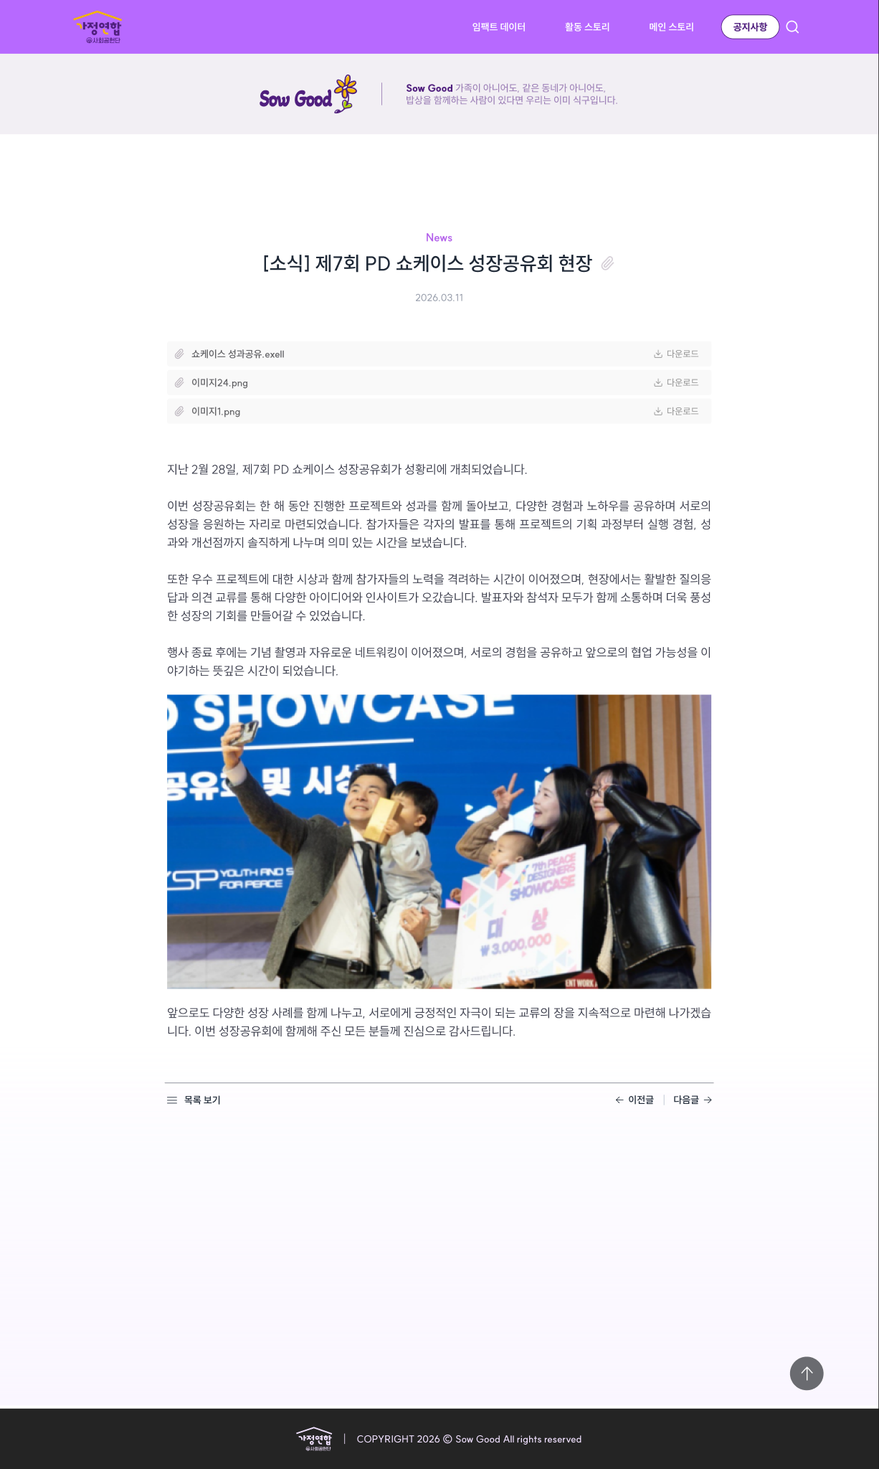
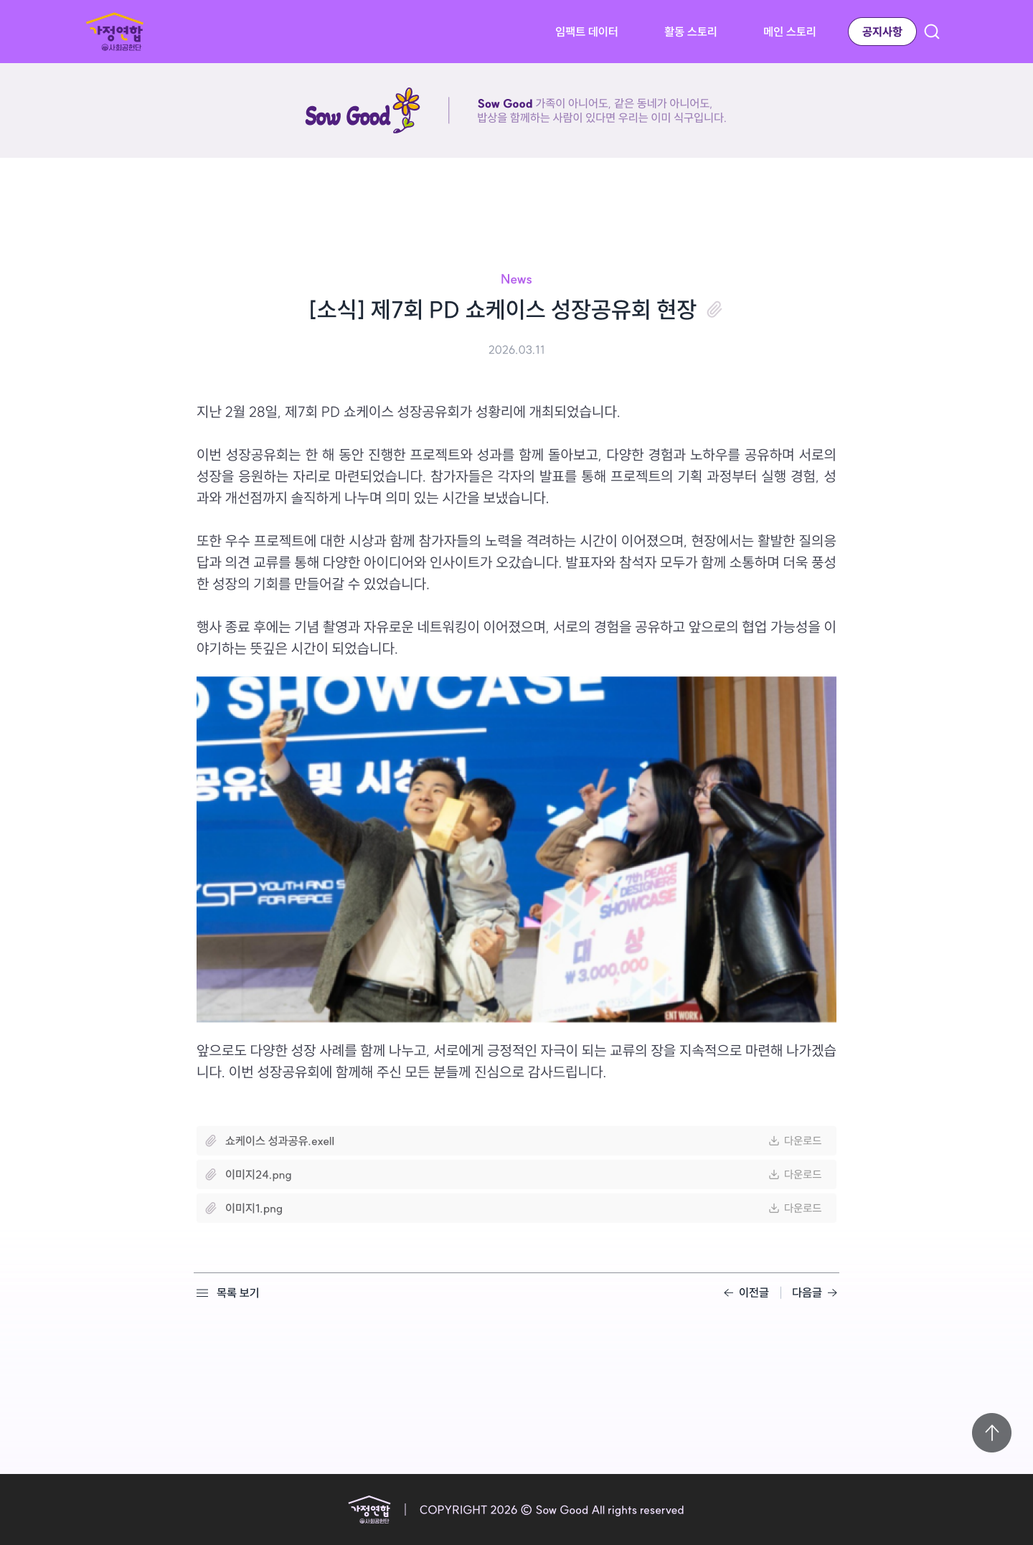
feat(notices): 구간별 Figma 반응형 4-BP 정합 + 상세 다운로드 하단 이동
- 상세 다운로드 섹션 본문 위→아래 이동 (리뷰 피드백, 새 상세 프레임과 일치)
- 디자이너 구간별 프레임 10(1149-*) 실측으로 [추론] 교체 (375/768/1024/1440, Playwright ±2px)
- 모바일(<768) 목록 No·Date 열 제거(Title 단일), 누락 lg(1024) 스텝 보강
- 목록 타이포 전 BP 고정(eyebrow18/h1 32)·상세 h1 28→32(md)·블록 gap60·다운로드→구분선70
- 헤더·푸터·배너 미참고(지시). 데이터·마이그레이션·다운로드 route 무변경
- 측정 docs/design/notices-fidelity-2026-07-08.md + ground truth PNG 갱신, ADR-042 addendum·S8 완료

diff --git a/src/app/(public)/notices/notice-list-rows.tsx b/src/app/(public)/notices/notice-list-rows.tsx
@@ -1,4 +1,5 @@
-// 공지 목록 행 — Figma 1104:10001 정합. 헤더 #242424 h53 · 일반 행 h62(지브라 #f9f9fc) · 읽음 행 h70(#fcfaff/#f9f4ff + 핀·보라 텍스트)
+// 공지 목록 행 — Figma 4-BP 정합(1149-9301/8742/7972·1103-7882, 측정 docs/design/notices-fidelity-2026-07-08.md).
+// 헤더/일반/읽음 행 높이 40·48·48(375) → 44·56·62(768) → 53·62·70(1025·1440). 모바일(375)은 No·Date 열 제거, Title 단일 열.
 // 호버 = 읽음 행 hover 상태(#f9f4ff + 보라)와 동일 색 처리 (Figma interaction annotation "중복 사용"). 색만 전환 — 레이아웃 시프트 방지 [정책]
 // 읽음 상태는 localStorage(visited-notices) — mount 후 적용해 SSR 마크업과 첫 클라 렌더 일치 (hydration-safe)
 "use client";
@@ -23,9 +24,9 @@ export type NoticeListRow = {
 
 const EMPTY_SET: ReadonlySet<string> = new Set();
 
-// 3열 공통 그리드·패딩 — 헤더/행 동일 정렬 (Figma: No 100 / Title flex / Date 100, px 20, gap 36. 하위 BP는 비례 축소 [추론])
+// 공통 그리드·패딩 — 헤더/행 동일 정렬. Figma 4-BP 실측: 모바일 Title 단일 열(px12) → md↑ No100/Title/Date100·gap36(px 12→20 at lg).
 const ROW_GRID_CLASS =
-  "grid grid-cols-[36px_minmax(0,1fr)_78px] items-center gap-3 px-3 md:grid-cols-[56px_minmax(0,1fr)_96px] md:gap-6 md:px-4 wide:grid-cols-[100px_minmax(0,1fr)_100px] wide:gap-9 wide:px-5";
+  "grid grid-cols-[minmax(0,1fr)] items-center px-3 md:grid-cols-[100px_minmax(0,1fr)_100px] md:gap-9 lg:px-5";
 
 export function NoticeListRows({
   rows,
@@ -43,19 +44,19 @@ export function NoticeListRows({
   }, []);
 
   return (
-    // 테이블 폭 — Figma 1440: 콘텐츠 밴드 1200 안에서 900 중앙 (좌우 인셋 150). 하위 BP 는 밴드 전체폭 [추론]
-    <div className="mt-10 wide:mx-auto wide:mt-[82px] wide:max-w-[900px]">
-      {/* 헤더 행 — Figma TopBlock: #242424 · SUIT SemiBold 18 · h53 · rounded 4 */}
+    // 테이블 폭 — Figma: md/lg/모바일은 SectionContainer 밴드 전체(648/905/유동), wide 만 1200 밴드 안 900 중앙. 타이틀→표 gap 41(375)/82(md↑).
+    <div className="mt-10 md:mt-[82px] wide:mx-auto wide:max-w-[900px]">
+      {/* 헤더 행 — Figma TopBlock #242424 rounded4. h40/44/53, 텍스트 16/16/18. 모바일은 Title 단일 열 */}
       <div
         aria-hidden
         className={cn(
           ROW_GRID_CLASS,
-          "h-11 rounded-[4px] bg-[#242424] text-[13px] font-semibold text-[#f2f2f2] md:h-12 md:text-[15px] wide:h-[53px] wide:text-[18px]",
+          "h-10 rounded-[4px] bg-[#242424] text-base font-semibold text-[#f2f2f2] md:h-11 lg:h-[53px] lg:text-lg",
         )}
       >
-        <span className="text-center">No.</span>
+        <span className="hidden text-center md:block">No.</span>
         <span>Title</span>
-        <span className="text-center">Date</span>
+        <span className="hidden text-center md:block">Date</span>
       </div>
 
       {rows.length === 0 ? (
@@ -74,10 +75,10 @@ export function NoticeListRows({
                   className={cn(
                     ROW_GRID_CLASS,
                     "group border-b transition-colors",
-                    // 높이 — 일반 62 / 읽음 70 (Figma). 하위 BP 비례 [추론]
+                    // 행 높이 (Figma 4-BP) — 일반 48/56/62/62 · 읽음 48/62/70/70
                     isVisited
-                      ? "min-h-[54px] border-[#ece1f3] md:min-h-[60px] wide:min-h-[70px]"
-                      : "min-h-12 border-[#cbcbcb] md:min-h-[54px] wide:min-h-[62px]",
+                      ? "min-h-12 border-[#ece1f3] md:min-h-[62px] lg:min-h-[70px]"
+                      : "min-h-12 border-[#cbcbcb] md:min-h-14 lg:min-h-[62px]",
                     // 지브라 — 일반: white/#f9f9fc · 읽음: #fcfaff/#f9f4ff. 호버는 항상 #f9f4ff
                     isVisited
                       ? isEven
@@ -89,23 +90,24 @@ export function NoticeListRows({
                     "hover:bg-[#f9f4ff]",
                   )}
                 >
+                  {/* No·Date 는 모바일(375)에서 숨김 — Figma 는 Title 단일 열 */}
                   <span
                     className={cn(
-                      "text-center text-[13px] font-medium tabular-nums transition-colors md:text-[15px] wide:text-[18px]",
+                      "hidden text-center text-base font-medium tabular-nums transition-colors md:block lg:text-lg",
                       isVisited ? "text-[#c8a3e6]" : "text-[#959ba9]",
                       "group-hover:text-[#c8a3e6]",
                     )}
                   >
                     {row.no}
                   </span>
-                  <span className="flex min-w-0 items-center gap-1.5 wide:gap-2.5">
-                    {/* 읽음 마커 핀 — Figma No/PinIcon (읽은 행에만, fill #E1C8F9) */}
+                  <span className="flex min-w-0 items-center gap-2.5">
+                    {/* 읽음 마커 핀 — Figma No/PinIcon (읽은 행에만, fill #E1C8F9). 20/20/24/24 */}
                     {isVisited && (
-                      <NoticePinIcon className="size-4 text-[#e1c8f9] md:size-5 wide:size-6" />
+                      <NoticePinIcon className="size-5 text-[#e1c8f9] lg:size-6" />
                     )}
                     <span
                       className={cn(
-                        "truncate text-[13px] font-medium transition-colors md:text-[15px] wide:text-[18px]",
+                        "truncate text-base font-medium transition-colors lg:text-lg",
                         isVisited ? "text-[#a34df3]" : "text-[#2d2d2d]",
                         "group-hover:text-[#a34df3]",
                       )}
@@ -116,7 +118,7 @@ export function NoticeListRows({
                       <NoticeClipIcon
                         aria-label="첨부파일 있음"
                         className={cn(
-                          "size-4 transition-colors wide:size-5",
+                          "size-5 transition-colors",
                           isVisited ? "text-[#c8a3e6]" : "text-[#d6d0d8]",
                           "group-hover:text-[#c8a3e6]",
                         )}
@@ -125,7 +127,7 @@ export function NoticeListRows({
                   </span>
                   <span
                     className={cn(
-                      "text-center text-[13px] font-medium tabular-nums transition-colors md:text-[15px] wide:text-[18px]",
+                      "hidden text-center text-base font-medium tabular-nums transition-colors md:block lg:text-lg",
                       isVisited ? "text-[#c8a3e6]" : "text-[#959ba9]",
                       "group-hover:text-[#c8a3e6]",
                     )}
@@ -140,8 +142,8 @@ export function NoticeListRows({
       )}
 
       {totalPages > 1 && (
-        // Figma: 목록 하단 →80→ 페이지네이션 (1440). 하위 BP 40 [추론]
-        <div className="mt-10 flex justify-center wide:mt-20">
+        // Figma 전 BP: 목록 하단 →80→ 페이지네이션
+        <div className="mt-20 flex justify-center">
           <Pagination
             page={page}
             totalPages={totalPages}

diff --git a/src/app/(public)/notices/[id]/page.tsx b/src/app/(public)/notices/[id]/page.tsx
@@ -1,4 +1,4 @@
-// 공지사항 상세 페이지 — Figma 1104:10813 정합. 중앙 타이틀 블록(News eyebrow·클립) + 첨부 다운로드(본문 위) + 본문 + 목록/이전다음
+// 공지사항 상세 페이지 — Figma 1104:10813 정합. 중앙 타이틀 블록(News eyebrow·클립) + 본문 + 첨부 다운로드(본문 아래) + 목록/이전다음
 // 미발행·예약·불량 uuid 는 404. Next 16 params Promise + Suspense 격리 (news 상세 미러)
 import type { Metadata } from "next";
 import { Suspense } from "react";
@@ -109,36 +109,41 @@ async function NoticeDetailContent({
     : { prev: null, next: null };
 
   return (
-    // 본문폭 — Figma 1440: Wrap x270 w900. md 648 [추론 news 정합]. 배너 →154→ 타이틀 (wide), 하위 BP 60 [추론]
-    <div className="mx-auto w-full px-4 pt-[60px] pb-[100px] md:max-w-[648px] md:px-0 lg:max-w-[900px] wide:pt-[154px] wide:pb-[180px]">
+    // 본문폭 — Figma 4-BP: 343(px16)/648/905≈900/900. 배너→타이틀 65/85/154/154 (docs/design/notices-fidelity-2026-07-08.md)
+    <div className="mx-auto w-full px-4 pt-[65px] pb-[100px] md:max-w-[648px] md:px-0 md:pt-[85px] lg:max-w-[900px] lg:pt-[154px] wide:pb-[180px]">
       <NoticeVisitTracker noticeId={notice.id} />
 
-      {/* 타이틀 블록 — Figma 1104:10952: News eyebrow +4+ 제목(중앙, 첨부 시 클립 28) +20+ 날짜(중앙) */}
-      <header className="flex flex-col gap-3 text-center wide:gap-5">
+      {/* 타이틀 블록 — Figma 1104:10952: News eyebrow(18) +4+ 제목(중앙 28→32, 첨부 시 클립 28) +20+ 날짜(16, 중앙) */}
+      <header className="flex flex-col gap-5 text-center">
         <div className="flex flex-col gap-1">
-          <p className="text-base font-bold leading-[1.6] text-[#b35feb] wide:text-[18px]">
+          <p className="text-lg font-bold leading-[1.6] text-[#b35feb]">
             News
           </p>
-          <div className="flex items-center justify-center gap-2 wide:gap-2.5">
-            <h1 className="break-keep text-2xl font-semibold leading-[1.5] text-[#1f2937] lg:text-[28px] wide:text-[32px]">
+          <div className="flex items-center justify-center gap-2.5">
+            <h1 className="break-keep text-[28px] font-semibold leading-[1.5] text-[#1f2937] md:text-[32px]">
               {notice.title}
             </h1>
             {notice.attachments.length > 0 && (
               <NoticeClipIcon
                 aria-label="첨부파일 있음"
-                className="size-5 text-[#d6d0d8] wide:size-7"
+                className="size-6 text-[#d6d0d8] md:size-7"
               />
             )}
           </div>
         </div>
-        <p className="text-[15px] font-medium text-[#959ba9] wide:text-[16px]">
+        <p className="text-base font-medium text-[#959ba9]">
           {fmtDate(notice.publishedAt)}
         </p>
       </header>
 
-      {/* 첨부 다운로드 — Figma: 타이틀 →60→ 다운로드 행들 (본문 위). 첨부 0개면 미렌더 */}
+      {/* 본문 — 타이틀 →60→ 본문 (Figma LeftBlock gap-60, 전 BP) */}
+      <div className="mt-[60px]">
+        <NewsBodyRenderer body={notice.body} />
+      </div>
+
+      {/* 첨부 다운로드 (본문 아래) — 사용자 피드백으로 상단→하단 이동. 본문 →60→ 다운로드 (Figma 하단 배치·gap-60). 첨부 0개면 미렌더 */}
       {notice.attachments.length > 0 && (
-        <div className="mt-8 wide:mt-[60px]">
+        <div className="mt-[60px]">
           <DownloadSection
             attachments={notice.attachments.map((a) => ({
               id: a.id,
@@ -149,13 +154,8 @@ async function NoticeDetailContent({
         </div>
       )}
 
-      {/* 본문 — Figma: 다운로드(없으면 타이틀) →60→ 본문 */}
-      <div className="mt-8 wide:mt-[60px]">
-        <NewsBodyRenderer body={notice.body} />
-      </div>
-
-      {/* Figma: 본문 →70→ 디바이더 →16→ 목록/이전다음 */}
-      <hr className="mt-12 border-border wide:mt-[70px]" />
+      {/* 본문/다운로드 →70→ 디바이더 →16→ 목록/이전다음 (Figma 전 BP) */}
+      <hr className="mt-[70px] border-border" />
 
       <NoticePrevNext prev={adjacent.prev} next={adjacent.next} />
     </div>

diff --git a/src/app/(public)/notices/page.tsx b/src/app/(public)/notices/page.tsx
@@ -46,15 +46,15 @@ export default function NoticesPage({
       />
       <SubBanner />
 
-      {/* 수직 리듬 — Figma 1440: 배너 →101→ 타이틀 블록. 하위 BP 절반 [추론] */}
-      <section className="w-full pt-[50px] pb-[100px] wide:pt-[101px] wide:pb-[180px]">
+      {/* 수직 리듬 — Figma 4-BP: 배너 →타이틀 51/113/183/183 (docs/design/notices-fidelity-2026-07-08.md) */}
+      <section className="w-full pt-[50px] pb-[100px] md:pt-[113px] lg:pt-[183px] wide:pb-[180px]">
         <SectionContainer>
-          {/* 타이틀 — Figma 1103:8022: News eyebrow(SUIT Bold 18 #b35feb) +4+ 공지사항(SemiBold 32 #1f2937), 중앙 정렬 */}
+          {/* 타이틀 — Figma 1103:8022: News eyebrow(SUIT Bold 18 #b35feb) +4+ 공지사항(SemiBold 32 #1f2937), 중앙. 전 BP 고정 크기 */}
           <div className="text-center">
-            <p className="text-base font-bold leading-[1.6] text-[#b35feb] wide:text-[18px]">
+            <p className="text-lg font-bold leading-[1.6] text-[#b35feb]">
               News
             </p>
-            <h1 className="mt-1 text-2xl font-semibold leading-[1.5] text-[#1f2937] lg:text-[28px] wide:text-[32px]">
+            <h1 className="mt-1 text-[32px] font-semibold leading-[1.5] text-[#1f2937]">
               공지사항
             </h1>
           </div>
@@ -97,11 +97,11 @@ async function NoticesData({
 
 function NoticeListLoading() {
   return (
-    <div className="mt-10 wide:mx-auto wide:mt-[82px] wide:max-w-[900px]" aria-busy>
-      <div className="h-11 animate-pulse rounded-[4px] bg-muted/60 md:h-12 wide:h-[53px]" />
+    <div className="mt-10 md:mt-[82px] wide:mx-auto wide:max-w-[900px]" aria-busy>
+      <div className="h-10 animate-pulse rounded-[4px] bg-muted/60 md:h-11 lg:h-[53px]" />
       <ul className="mt-2 space-y-2">
         {Array.from({ length: 10 }).map((_, i) => (
-          <li key={i} className="h-12 animate-pulse rounded-[4px] bg-muted/40 wide:h-[62px]" />
+          <li key={i} className="h-12 animate-pulse rounded-[4px] bg-muted/40 md:h-14 lg:h-[62px]" />
         ))}
       </ul>
     </div>

diff --git a/src/features/notices/components/DownloadSection.tsx b/src/features/notices/components/DownloadSection.tsx
@@ -1,4 +1,4 @@
-// 공지 상세 첨부파일 다운로드 — Figma 1104:11167 정합: 행 bg #f9f9f9 h41 rounded-4 px-10, 클립+파일명 좌 / 다운로드 우. Server Component
+// 공지 상세 첨부파일 다운로드(본문 아래) — Figma 1104:11167 정합: 행 bg #f9f9f9 h41 rounded-4 px-10, 클립+파일명 좌 / 다운로드 우. 전 BP 고정. Server Component
 import { NoticeClipIcon, NoticeDownloadIcon } from "./notice-icons";
 
 export type DownloadAttachment = {
@@ -31,11 +31,11 @@ export function DownloadSection({
           >
             <span className="flex min-w-0 items-center gap-2.5">
               <NoticeClipIcon className="size-5 text-[#c0bac2]" />
-              <span className="truncate text-[15px] font-semibold text-[#606063] wide:text-[16px]">
+              <span className="truncate text-base font-semibold text-[#606063]">
                 {a.fileName}
               </span>
             </span>
-            <span className="flex shrink-0 items-center gap-1.5 px-2.5 text-sm font-medium text-[#999999] wide:text-[15px]">
+            <span className="flex shrink-0 items-center gap-1.5 px-2.5 text-[15px] font-medium text-[#999999]">
               <NoticeDownloadIcon className="size-4" />
               다운로드
             </span>

diff --git a/src/app/(public)/notices/[id]/notice-prev-next.tsx b/src/app/(public)/notices/[id]/notice-prev-next.tsx
@@ -49,7 +49,7 @@ export function NoticePrevNext({
   next: Adjacent;
 }) {
   return (
-    <nav className="mt-6 flex items-center justify-between gap-2 text-base font-semibold text-ink-strong lg:mt-1.5">
+    <nav className="mt-4 flex items-center justify-between gap-2 text-base font-semibold text-ink-strong">
       <Link
         href="/notices"
         className="-mx-2 inline-flex min-h-11 items-center gap-2 rounded-lg px-2 py-2 hover:opacity-80"

diff --git a/docs/design/notices-fidelity-2026-07-08.md b/docs/design/notices-fidelity-2026-07-08.md
@@ -1,0 +1,70 @@
+# 공지사항 4-BP Figma 정합 측정 (2026-07-08)
+
+> 디자이너가 추가한 구간별 프레임 10개(목록 5 + 상세 5) 실측 기록. PR #82 는 1440 단일 프레임 기반 + 하위 BP `[추론]` 이었음(S8 미완). 본 문서가 `[추론]` 제거 근거.
+>
+> **Figma fileKey** `lmjjU4UxUpK2pDi67BGRiW`. Ground truth PNG: `docs/design/figma-export/notices/notices-{list,detail}-{375,767,768,1025,1440}.png`.
+> **범위 제외(사용자 지시)**: 헤더·푸터·배너(SubBanner) — 프레임에 포함돼 있어도 미참고. 중앙 콘텐츠만.
+
+## 노드 ↔ BP 매핑
+
+| 화면 | 375 | 767(모바일 최대) | 768(md) | 1025(lg) | 1440(wide) |
+|---|---|---|---|---|---|
+| 목록 | 1149-9301 | 1149-9786 | 1149-8742 | 1149-7972 | 1103-7882 |
+| 상세 | 1149-12395 | 1149-12667 | 1149-11987 | 1149-11851(부모) | 1104-10813 |
+
+- 767·768 두 프레임은 **SectionContainer 브레이크포인트(768) 경계 시연** — 767=모바일 유동(px16→735), 768=태블릿 고정(648). `SectionContainer` 가 이미 `md:648 / lg:905 / wide:1200` 로 정확히 생성(변경 불필요).
+- 상세는 **레이아웃 재디자인 아님** — 전 BP `타이틀→본문→다운로드→구분선→이전/다음` 동일(다운로드 하단 확정, Part A 일치).
+
+## 목록(List) 측정 — 섹션 × BP
+
+| 항목 | 375 | 768(md) | 1025(lg) | 1440(wide) | 현재 코드(수정 전) |
+|---|---|---|---|---|---|
+| 컨텐츠 폭 | 343(px16) | 648 | 905 | 1200(表 900 중앙) | SectionContainer=일치 ✓ |
+| **컬럼** | **Title 1열(No·Date 제거)** | No100·Title·Date100 | 동일 | 동일 | 전 BP 3열(모바일 오류) |
+| 컬럼 gap / px | -(px12) | 36 / 12 | 36 / 20 | 36 / 20 | md 24/16·wide 36/20 |
+| 헤더 행 높이 | 40 | 44 | 53 | 53 | 44/48/-/53 (lg 누락) |
+| 일반 행 높이 | 48 | 56 | 62 | 62 | 48/54/-/62 |
+| 읽음 행 높이 | 48 | 62 | 70 | 70 | 54/60/-/70 |
+| 행/헤더 텍스트 | 16 | 16 | 18 | 18 | 13/15/-/18 |
+| 핀 아이콘 | 20 | 20 | 24 | 24 | 16/20/-/24 |
+| eyebrow "News" | 18 | 18 | 18 | 18 | 16/-/-/18 |
+| h1 "공지사항" | 32 | 32 | 32 | 32 | 24/-/28/32 |
+| 배너→타이틀(pt) | ~51 | ~113 | ~183 | ~183 | 50/-/-/101 |
+| 타이틀→표(mt) | ~41 | 82 | 82 | 82 | 40/-/-/82 |
+| 표→페이지네이션 | 80 | 80 | 80 | 80 | 40/-/-/80 |
+
+- eyebrow/h1 은 **전 BP 고정(18/32)** — 비반응형. 색 #b35feb / #1f2937, leading 1.6 / 1.5, gap 4, 중앙.
+- 행 텍스트 색·지브라·읽음 보라(#a34df3 / #c8a3e6 / #959ba9 / #2d2d2d)·hover 는 기존 일치(유지).
+- Title 셀 내부 gap(핀·제목·클립) = 10.
+
+## 상세(Detail) 측정 — 섹션 × BP
+
+| 항목 | 375 | 768(md) | 1025(lg)[추론] | 1440(wide) | 현재 코드(수정 전) |
+|---|---|---|---|---|---|
+| 본문 폭 | 343(px16) | 648 | ~905 | 900 중앙 | 343/648/900/900 ≈ ✓ |
+| 배너→타이틀(pt) | ~65 | ~85 | ~154 | 154 | 60/-/-/154 |
+| eyebrow "News" | 18 | 18 | 18 | 18 | 16/-/-/18 |
+| h1(제목) | 28 | 32 | 32 | 32 | 24/-/28/32 |
+| 제목 클립 | 28 | 28 | 28 | 28 | 20/-/-/28 |
+| 날짜 | 16 | 16 | 16 | 16 | 15/-/-/16 |
+| 제목블록→날짜 gap | 20 | 20 | 20 | 20 | 12/-/-/20 |
+| 타이틀→본문 gap | 60 | 60 | 60 | 60 | 32/-/-/60 |
+| 본문→다운로드 gap | 60 | 60 | 60 | 60 | 32/-/-/60 |
+| 다운로드→구분선 | 70 | 70 | 70 | 70 | 48/-/-/70 |
+| 구분선→이전다음 | 16 | 16 | 16 | 16 | 24/-/6 |
+
+- 1025(lg) 상세는 프레임 미제공(부모 노드=헤더). 1025 목록(905 밴드) + 1440 상세(전 BP 동일 타이포)로 [추론] — lg≡wide 클러스터 근거.
+- **다운로드 행**(비반응형): h41, px10, rounded4, bg #f9f9f9, 행 간격 6. 파일명 SUIT SemiBold **16** #606063, 클립 20. 라벨 SUIT Medium **15** #999, 다운 아이콘 16.
+- **본문 텍스트**: Figma 20px/1.5 #3e404e. 그러나 `NewsBodyRenderer` 는 news 와 공유 컴포넌트(범위 제외) → 미변경. [확인 필요: v1.1 공용 렌더 폰트 정책]
+
+## 조치 요약(코드 반영)
+
+- `notice-list-rows.tsx` — 모바일 1열(No/Date `hidden md:*`), 행/헤더 높이·텍스트·핀·클립·gap·px 를 4-BP 실측으로(누락 lg 보강), 표→표 mt 82(md↑), 페이지네이션 80.
+- `notices/page.tsx` — 섹션 pt 50/113/183, eyebrow 18 고정·h1 32 고정.
+- `notices/[id]/page.tsx` — 다운로드 하단(Part A 완료) + pt 65/85/154, header gap-5, eyebrow18/h1 28→32(md)/클립28/날짜16, 본문·다운로드 gap 60, 구분선 mt 70.
+- `DownloadSection.tsx` — 파일명 16 고정, 라벨 15 고정(wide scaling 제거).
+- `notice-prev-next.tsx` — 구분선→nav 16(`mt-4`).
+
+## 검증
+
+Playwright `getBoundingClientRect`(스크롤바 숨김) × 375/768/1024/1440, ±2px. base→375 / md→768 / lg→1024 / wide→1440.

diff --git a/docs/plans/active/TASK-20260708-notices.md b/docs/plans/active/TASK-20260708-notices.md
@@ -35,7 +35,7 @@ related_adr: ADR-041, ADR-042
 - [x] S5 공개 목록 — page + notice-list-rows(읽음 하이라이트, hydration-safe) + visited-notices.ts + Pagination 공용 승격
 - [x] S6 공개 상세 — page(OG·404) + DownloadSection + visit-tracker
 - [x] S7 seed 공지 8건(첨부 3, 고정 UUID) + ADR-041/042 + current.md §4-4 + 어드민 surface 7→8 + **헤더 케이스 A 반영**(PublicHeader 5메뉴·경로 매칭, /news·랜딩 회귀 확인, 768 5핀 수용·375 드롭다운 정상)
-- [ ] S8 tsc·lint·test·build + 4-BP Figma 대조 + anti-slop
+- [x] S8 tsc0·lint0·test98·build✓ + **4-BP Figma 대조 완료**(디자이너 구간별 프레임 10 실측, Playwright ±2px) + anti-slop — 상세 `docs/design/notices-fidelity-2026-07-08.md`
 
 ## 컨텍스트 노트 (결정 로그)
 
@@ -47,4 +47,6 @@ related_adr: ADR-041, ADR-042
 - 2026-07-08: 어드민 E2E 전 구간 PASS — 작성→pdf/hwp 첨부(hwp canonical MIME 저장)→exe 거부→발행→수정(제거분 MinIO diff 삭제)→본문 이미지(notices/{id}/ prefix)→다운로드 302(한글 파일명)·미발행 404. 공개 목록·상세·읽음 하이라이트(localStorage→bg #F9F4FF+제목 brand-primary) PASS.
 - 2026-07-08 (S8 발견): dev 에서 상세 미방문 공지가 읽음 처리되는 팬텀 기록 관측(라우터 프리페치/세그먼트 프리렌더 계열 추정 — 격리 재현은 안 됨). NoticeVisitTracker 에 `location.pathname === /notices/{id}` 가드 추가 — 실제 상세 URL 에 있을 때만 마킹. 가드 후 방치 8초·hover 프리페치에도 재발 0, 실방문 1건만 기록 확인.
 - 2026-07-08 (S0 완료): Figma 대조로 v1 구조 구현에서 갱신된 것 — 타이틀 좌→중앙(News eyebrow), 다운로드 섹션 본문 아래→위(rows 스타일), 목록에 지브라·핀 마커·정확 색상(#242424/#959ba9/#2d2d2d/#a34df3/#c8a3e6/#d6d0d8), 테이블 900px 중앙, 그라데이션+ScrollTop 추가, 헤더 공지사항 메뉴. eyebrow "News" 카피·Figma 헤더 라벨 불일치·hover 핀 정책은 TODO escalation 3건.
+- 2026-07-08 (후속·리뷰 피드백): 디자이너가 **구간별 반응형 프레임 10 추가**(목록 `1103-7882`/`1149-7972`/`1149-8742`/`1149-9786`/`1149-9301` · 상세 `1104-10813`/`1149-11851`/`1149-11987`/`1149-12667`/`1149-12395`). S0 의 "1440 단일 + 하위 BP 비례 [추론]" 을 실측으로 교체(S8 종료). 핵심: **모바일(375) 목록 No·Date 열 제거(Title 단일)** · 누락 `lg:`(1024) 스텝 보강(헤더 53/행 62·70/텍스트 18) · md 정정(44/56·62/16) · 타이포 고정(목록 eyebrow18·h1 32 전 BP) · 상세 h1 28→32(md) · 다운로드 행 16/15. 헤더·푸터·배너는 사용자 지시로 미참고.
+- 2026-07-08 (후속·리뷰 피드백): **상세 다운로드 섹션 본문 위 → 아래로 이동**(사용자 피드백). 새 상세 프레임(1104-10813 등)도 `타이틀→본문→다운로드→구분선→이전/다음` 으로 확정돼 일치. 본문→다운로드 gap 60, 다운로드→구분선 70.
 - 잔여: prod 배포 시 `pnpm db:migrate`(0013) 필요.
